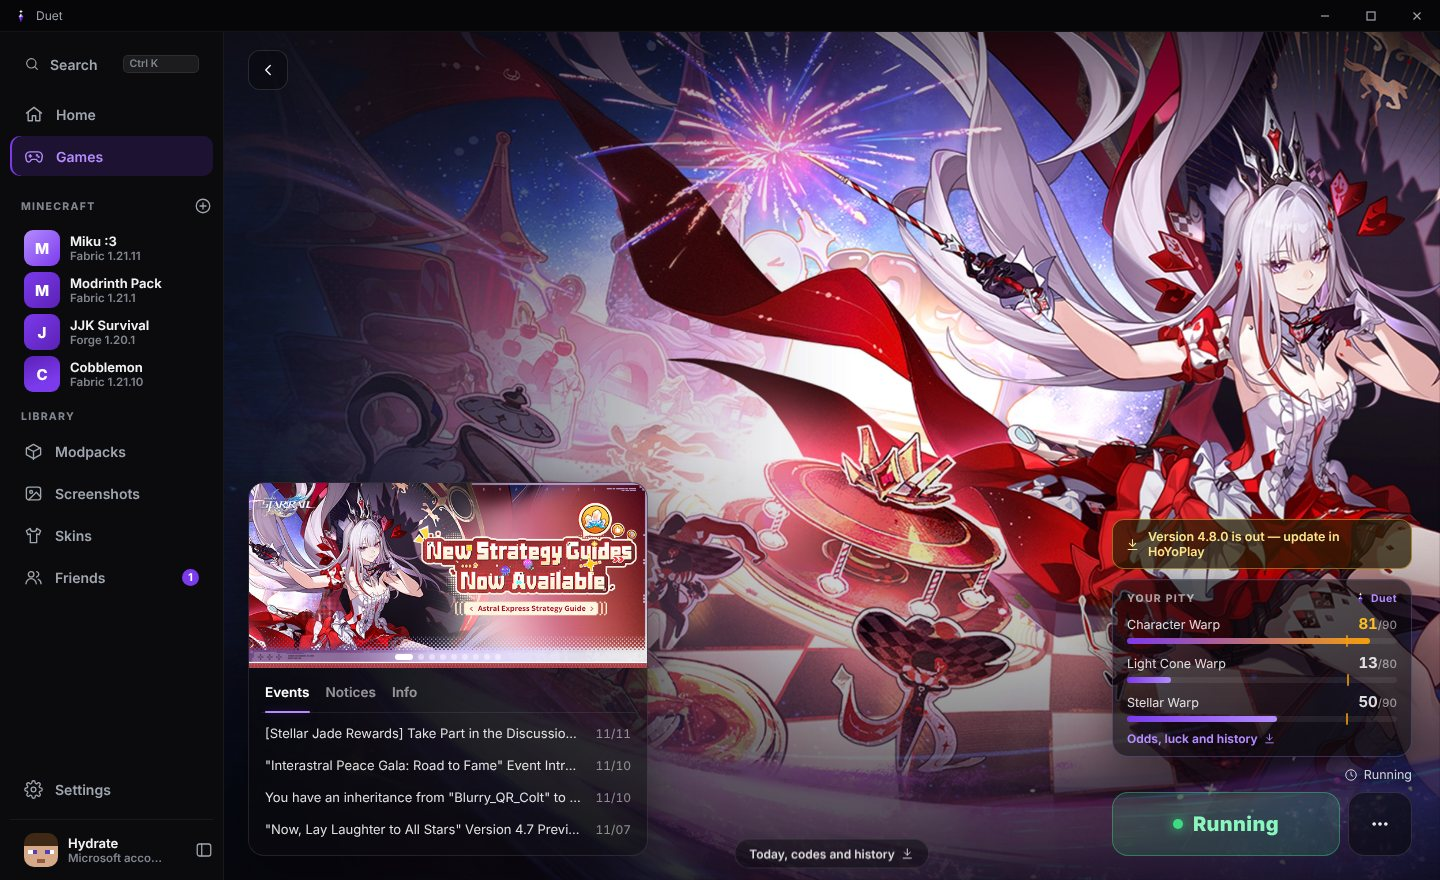
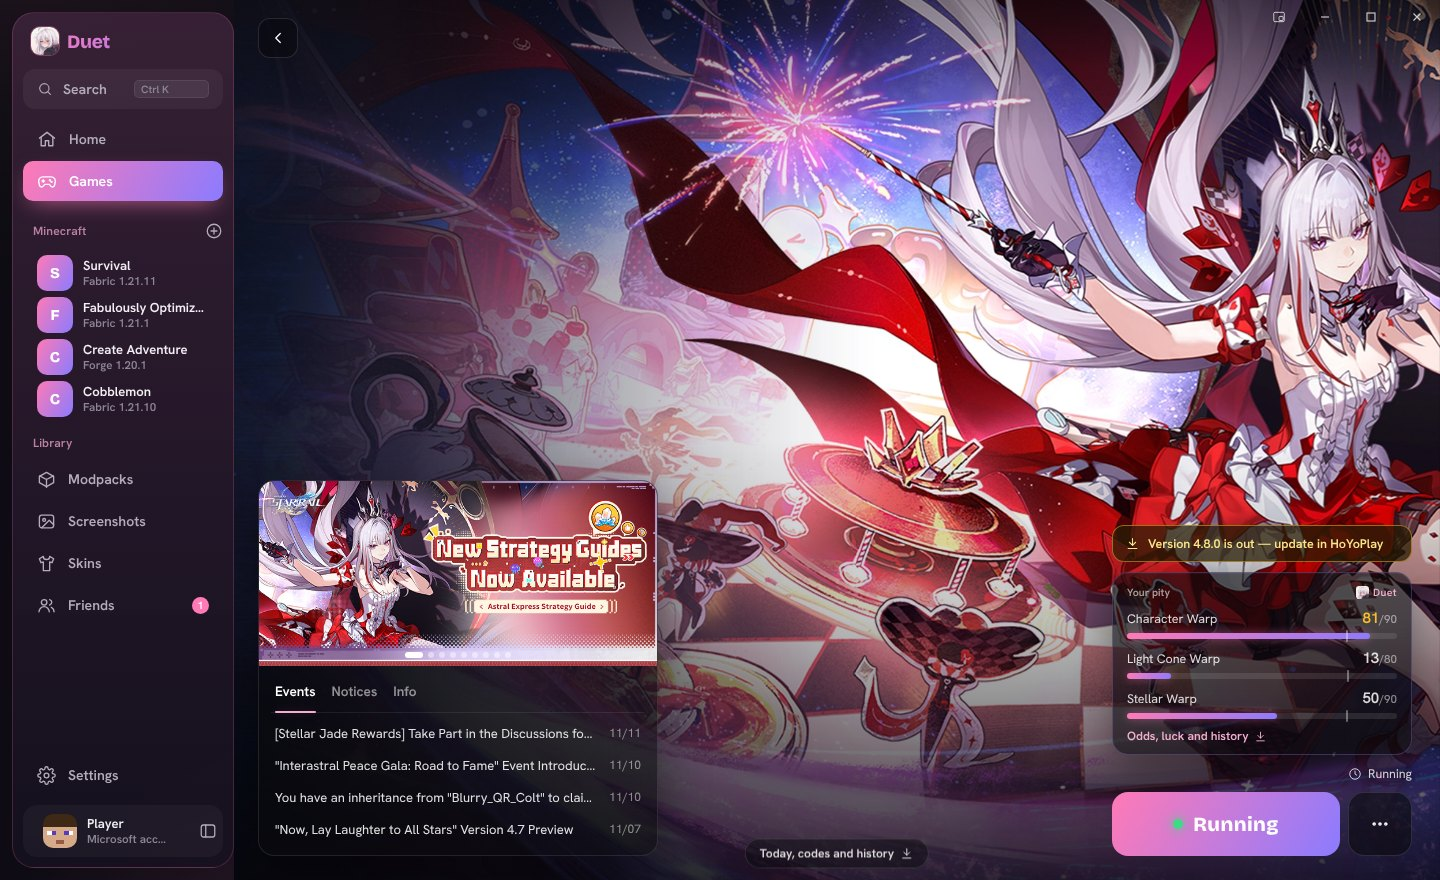
Screenshots with neutral names; keep colour buttons visible with dark-mode extensions
Claude-Session: https://claude.ai/code/session_019PJaeuPpXAg5U9wngcC8yc

diff --git a/docs/index.html b/docs/index.html
@@ -9,11 +9,14 @@
 <meta property="og:description" content="Minecraft, your gacha games, Steam and Epic in one beautiful launcher. Free for Windows and Linux.">
 <meta property="og:image" content="img/dash.webp">
 <meta name="theme-color" content="#0e0b14">
+<meta name="color-scheme" content="dark">
+<meta name="darkreader-lock">
 <link rel="icon" href="img/favicon.png">
 <link rel="preconnect" href="https://fonts.googleapis.com"><link rel="preconnect" href="https://fonts.gstatic.com" crossorigin>
 <link href="https://fonts.googleapis.com/css2?family=Bricolage+Grotesque:opsz,wght@12..96,600;12..96,700;12..96,800&family=Hanken+Grotesk:wght@400;500;600;700&display=swap" rel="stylesheet">
 <style>
 :root {
+  color-scheme: dark;
   --a: #ff7ab6; --b: #8b7bff; --ta: 255, 122, 182; --tb: 139, 123, 255;
   --bg: #0b0910; --panel: #15111d; --line: rgba(255, 255, 255, .08);
   --text: #f4f0f8; --sub: #b7aec4; --dim: #8a8199;
@@ -104,7 +107,7 @@ nav.top.solid { background: rgba(16, 12, 24, .82); box-shadow: 0 20px 50px -20px
 /* ── themes ────────────────────────────────────────── */
 .themes { display: grid; grid-template-columns: 1fr 1.55fr; gap: 50px; align-items: center; }
 .swatches { display: grid; grid-template-columns: repeat(5, 1fr); gap: 10px; margin: 30px 0 18px; max-width: 420px; }
-.sw { aspect-ratio: 1; border-radius: 20px; border: 0; cursor: pointer; background: linear-gradient(135deg, var(--x), var(--y)); position: relative; transition: transform .25s; box-shadow: inset 0 0 0 3px rgba(0, 0, 0, .15); }
+.sw { min-height: 56px; aspect-ratio: 1; border-radius: 20px; border: 0; cursor: pointer; appearance: none; padding: 0; background: linear-gradient(135deg, var(--x), var(--y)) !important; position: relative; transition: transform .25s; box-shadow: inset 0 0 0 3px rgba(0, 0, 0, .15); }
 .sw:hover { transform: translateY(-3px) scale(1.04); }
 .sw.on { box-shadow: 0 0 0 3px var(--bg), 0 0 0 5px var(--x), 0 12px 30px -8px var(--x); }
 .sw-name { font-weight: 700; color: var(--sub); }
@@ -409,6 +412,7 @@ const sw = document.getElementById("swatches"), tframe = document.getElementById
 THEMES.forEach(([id, name, , a, b], i) => {
   const btn = document.createElement("button");
   btn.className = "sw" + (i ? "" : " on"); btn.style.setProperty("--x", a); btn.style.setProperty("--y", b);
+  btn.style.backgroundImage = "linear-gradient(135deg, " + a + ", " + b + ")"; btn.style.backgroundColor = a;
   btn.setAttribute("aria-label", name + " theme");
   btn.onclick = () => { auto = false; pick(i); };
   sw.appendChild(btn);
